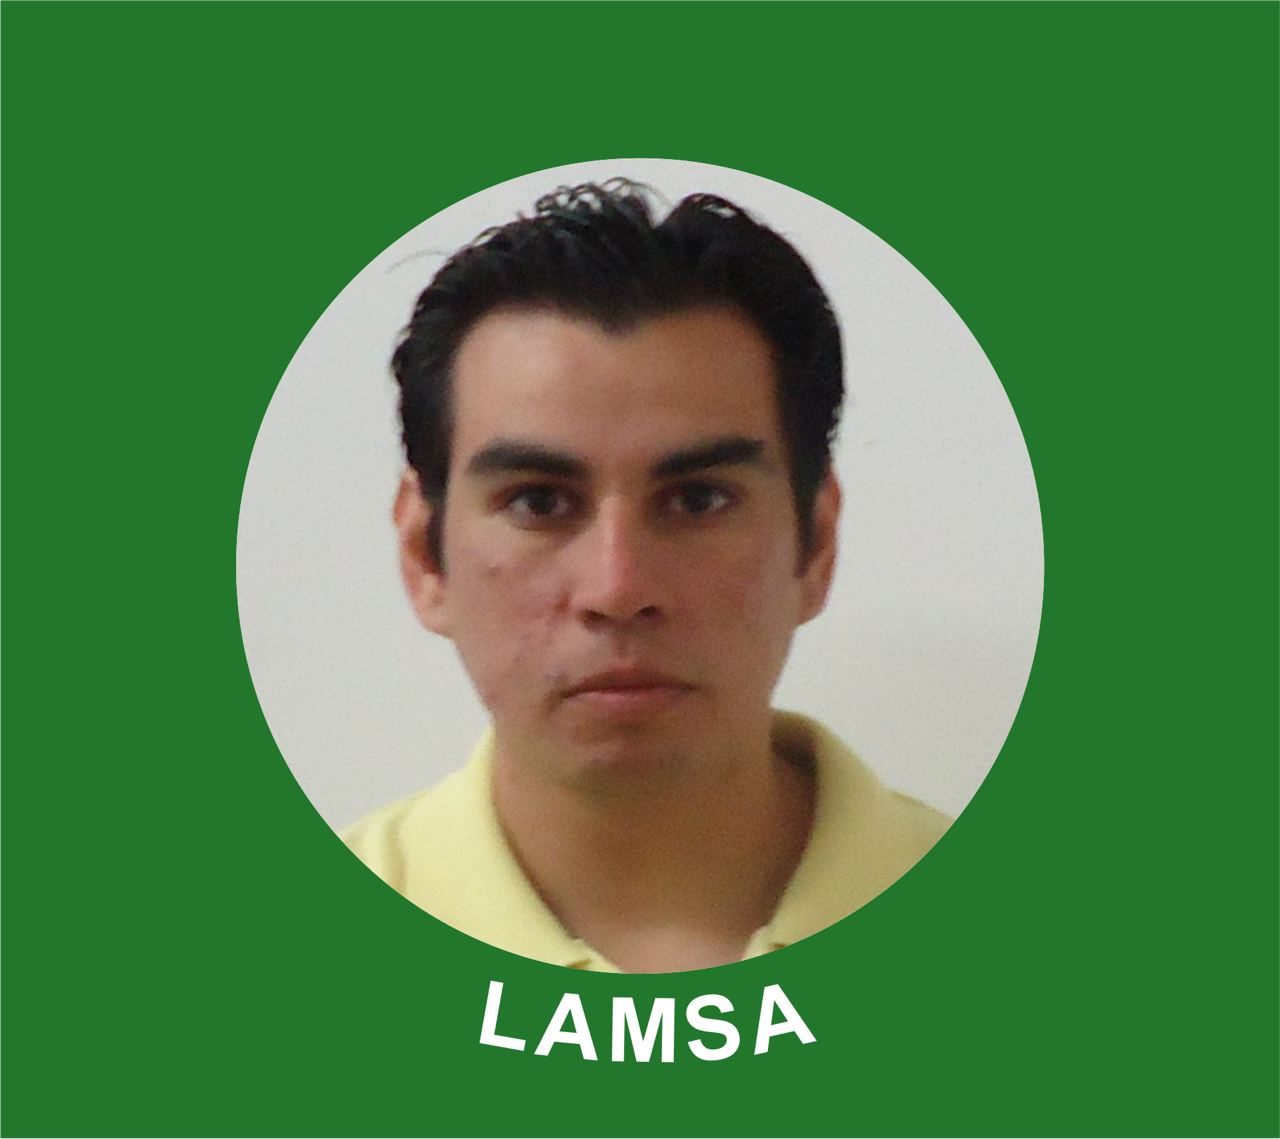
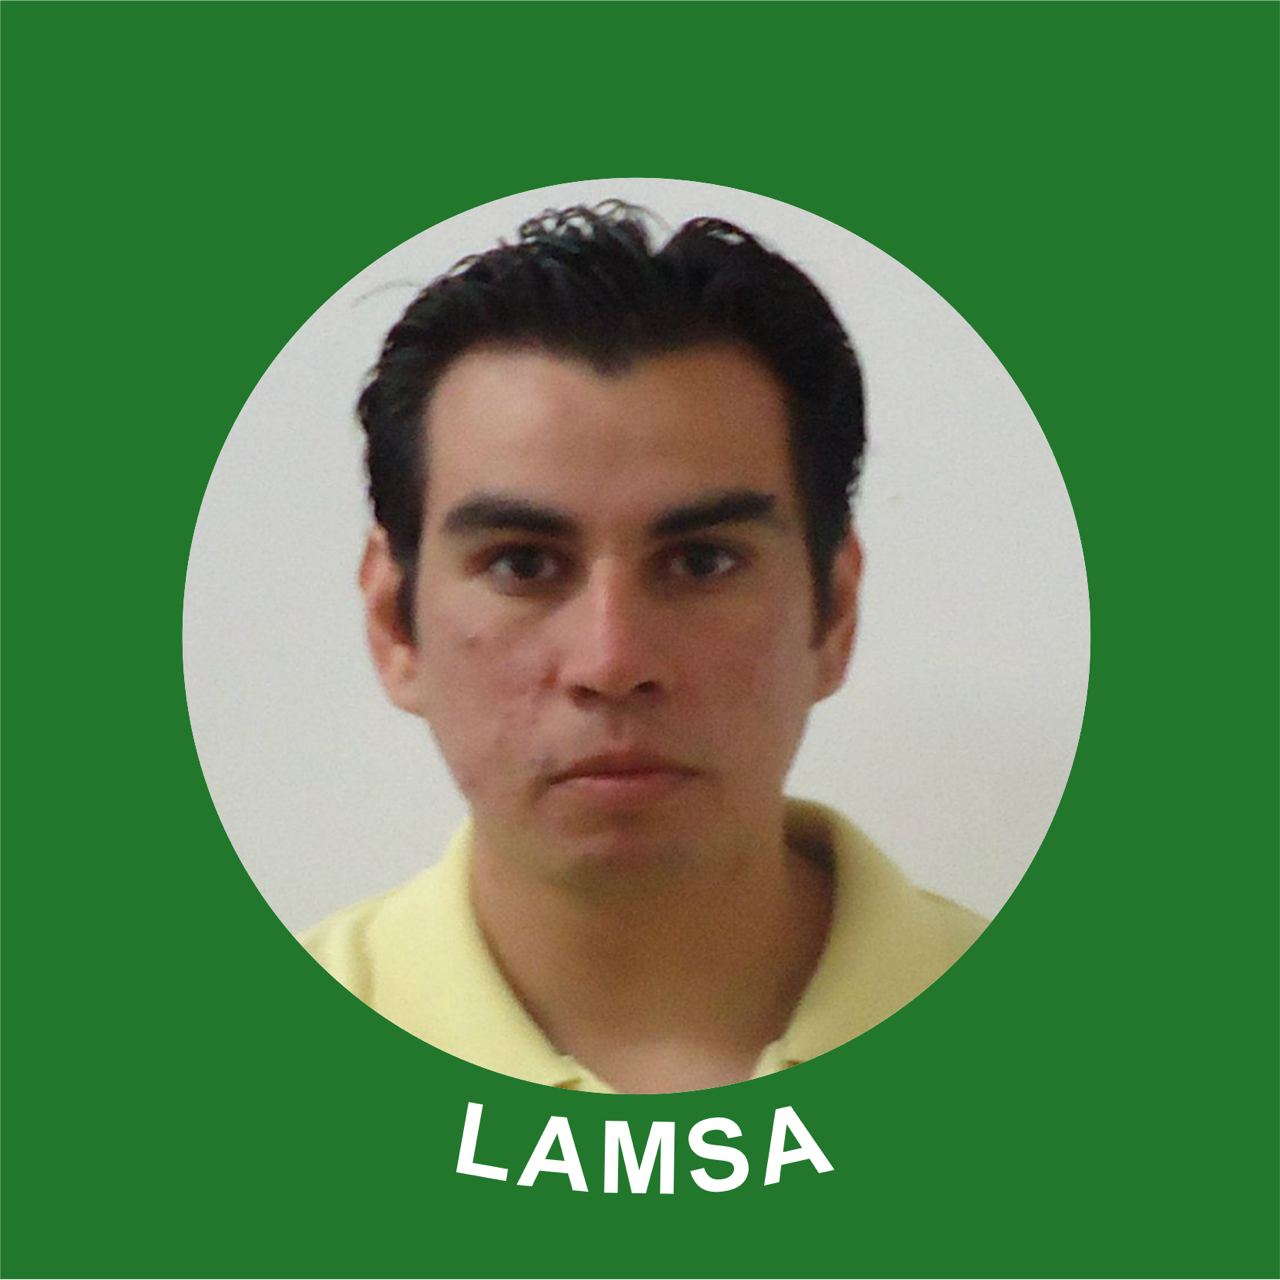
add

diff --git a/index.html b/index.html
@@ -17,7 +17,7 @@
                 <!-- <img *ngIf="employee.id == 3" src="../../../../assets/templates/lamsa/robert.jpeg" alt="Logo" class="img-fluid rounded-circle">
                 <img *ngIf="employee.id == 2" src="../../../../assets/templates/lamsa/logo-lamsa2.jpg" alt="Logo" class="img-fluid rounded-circle">
                 <img *ngIf="employee.id == 1" src="../../../../assets/templates/lamsa/logo-lamsa.jpg" alt="Logo" class="img-fluid rounded-circle"> -->
-                <img  src="test1.jpg" alt="Logo" class="img-fluid rounded-circle">
+                <img  src="test1.jpg" alt="Logo" class="img-fluid rounded-circle borde">
                 <h1 class="text-center">José Roberto De la Rosa Pérez</h1>
                 <h5>Supervisor de Redes</h5>
                 <div class="social-links mt-3 text-center">

diff --git a/style.css b/style.css
@@ -35,7 +35,8 @@
     margin: 10px auto;
     display: block;
     width: 200px;
-    /* border: 5px solid #367c2b; */
+ /*    border: 5px solid #367c2b;  */
+    border: 5px solid #fff; 
     }
     
     #header .profile h1 {
